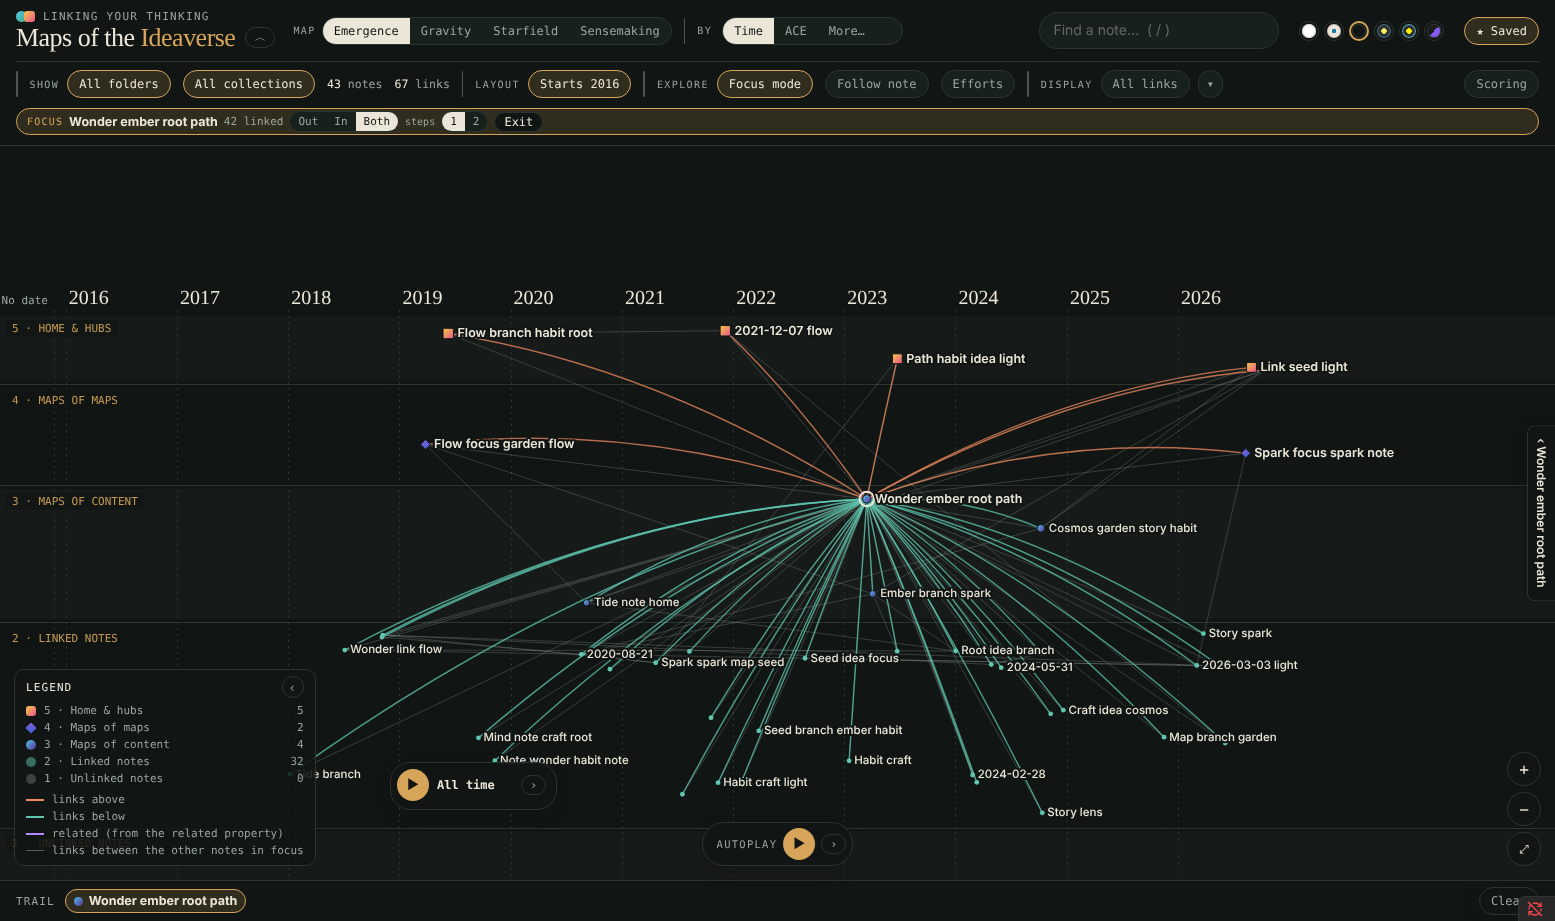
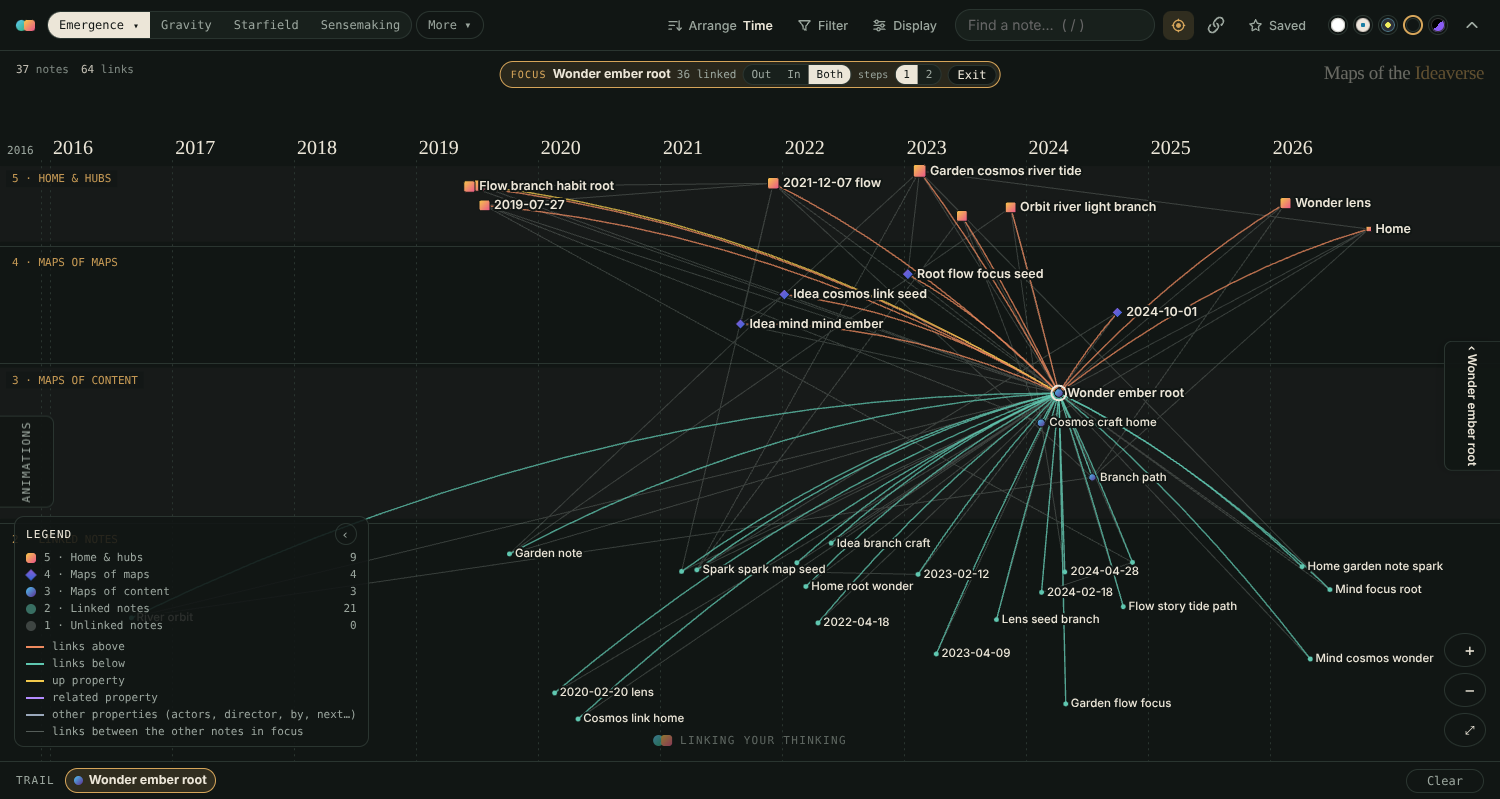
README: new screenshots of every main map and the More maps (Graph, Chord, Corona, Treemap, Bookshelf, Posters, Scatter, Mosaic); drop the early-preview note
Claude-Session: https://claude.ai/code/session_01QcxmUUuEka7RWjNHxnTd7Y

diff --git a/test/scenarios/readme-shots2.js b/test/scenarios/readme-shots2.js
@@ -1,0 +1,42 @@
+// README screenshots (made-up vault "films": the 2,500-note synth vault plus 160 made-up films with generated posters)
+const path = require('path');
+module.exports = async ({ page, sleep }) => {
+  const errs = []; page.on('pageerror', e => errs.push(e.message));
+  await page.evaluate(() => app.commands.executeCommandById('ideaverse-maps:open')); await page.waitForSelector('.ivm canvas', { timeout: 120000 }); await sleep(2500);
+  const ev = (f, a) => page.evaluate(f, a);
+  const theme = async t => { await ev(t => document.querySelector(`.ivm #themeseg button[data-th="${t}"]`).click(), t); await sleep(700); };
+  const core = async v => { await ev(v => { const b = document.querySelector(`.ivm #vseg button[data-v="${v}"]`); if (b.getAttribute('aria-pressed') !== 'true') b.click(); }, v); await sleep(2500); await close(); };
+  const more = async id => { await ev(id => { window.__ivReveal(id); document.querySelector('.ivm ' + id).click(); }, id); await sleep(3000); };
+  const close = async () => { await page.mouse.click(1590, 990); await ev(() => document.body.click()); await sleep(400); };
+  const find = async t => { const ok = await ev(t => { const f = app.vault.getMarkdownFiles().find(f => f.basename === t); if (!f) return false; app.workspace.getLeavesOfType('ideaverse-maps')[0].view.map.openNote(f.path); return true; }, t); console.log('find', t, ok); await sleep(2500); };
+  const tuck = async () => { await ev(() => { const b = document.querySelector('.ivm aside #dcol'); b && b.click(); }); await sleep(900); };
+  const clear = async () => { await ev(() => { const b = document.querySelector('.ivm aside #dx'); b && b.click(); }); await sleep(600); };
+  const legend = async open => { await ev(o => { const L = document.querySelector('.ivm #legend'); const isOpen = !L.classList.contains('collapsed'); if (isOpen !== o) (o ? document.querySelector('.ivm #legtab') : L).click(); }, open); await sleep(400); };
+  const wheel = async (n, fx = .5, fy = .5) => { const b = await page.locator('.ivm canvas').first().boundingBox(); await page.mouse.move(b.x + b.width * fx, b.y + b.height * fy); for (let i = 0; i < n; i++) { await page.mouse.wheel(0, -120); await sleep(200); } await sleep(1500); };
+  const snap = async name => { await page.mouse.move(1599, 300); await sleep(700); await page.locator('.ivm').first().screenshot({ path: path.join(process.env.SHOTS, name + '.png') }); console.log('snap', name); };
+  const zfit = async () => { await ev(() => document.querySelector('.ivm #zfit').click()); await sleep(1500); };
+
+  await theme('lyt'); await core('emergence'); await find('Story cosmos garden'); await tuck(); await zfit(); await snap('emergence'); await clear();
+  await theme('paper'); await core('gravity'); await ev(() => { const b = document.querySelector('.ivm #xseg button[data-x="ace"]'); b && b.click(); }); await sleep(1500); await find('Seed orbit idea'); await tuck(); await legend(false); await snap('gravity'); await legend(true); await clear();
+  await ev(() => { const b = document.querySelector('.ivm #xseg button[data-x="time"]'); b && b.click(); }); await sleep(1000);
+  await theme('dark'); await core('stars'); await ev(() => { const r = document.querySelector('.ivm input[name="s3d"][value="3d"]'); r && r.click(); }); await sleep(3000); await close(); await legend(false); await wheel(4, .55, .5); await snap('starfield'); await legend(true);
+  await ev(() => { const r = document.querySelector('.ivm input[name="s3d"][value="2d"]'); r && r.click(); }); await sleep(800);
+  await theme('softpaper'); await core('sense'); await find('Spark river craft'); await snap('sensemaking'); await clear();
+  await theme('dark'); await more('#gocso'); await legend(false); await find('Garden cosmos river tide'); await tuck(); await snap('corona'); await clear(); await legend(true);
+  await theme('lyt'); await more('#gochord'); await legend(false); await snap('chord'); await legend(true);
+  await theme('softpaper'); await more('#gotreemap'); await legend(false); await snap('treemap'); await legend(true);
+  await theme('paper'); await more('#goshelf'); await legend(false); await wheel(3, .3, .45); await snap('bookshelf'); await legend(true);
+  await theme('dark'); await more('#gograph'); await sleep(12000); await legend(false); await find('Garden cosmos river tide'); await tuck(); await wheel(2, .5, .5); await snap('graph'); await clear(); await legend(true);
+  // Posters on the film set
+  await theme('dark'); await more('#goposters');
+  await ev(() => { const v = app.workspace.getLeavesOfType('ideaverse-maps')[0].view; v.map.setScope(app.vault.getMarkdownFiles().filter(f => f.path.startsWith('Atlas/Films/') && f.basename !== 'Films').map(f => f.path)); }); await sleep(2500);
+  const pick = async (id, v) => { await ev(([id, v]) => { window.__ivReveal(id); const s = document.querySelector('.ivm ' + id); s.value = v; s.dispatchEvent(new Event('change')); }, [id, v]); await sleep(1500); };
+  const mode = async m => { await ev(m => { window.__ivReveal('#pmode'); document.querySelector(`.ivm #pmode [data-pm="${m}"]`).click(); }, m); await sleep(1800); };
+  await mode('rows'); await pick('#pacross', 'year'); await pick('#planes', 'genre'); await pick('#psize', 'rank'); await close(); await legend(false); await sleep(3000); await wheel(3, .55, .45); await sleep(3000); await snap('posters');
+  await zfit(); await mode('scatter'); await pick('#pacross', 'imdbRating'); await pick('#pheight', 'rank'); await close(); await sleep(4000); await snap('tastegap');
+  await mode('mosaic'); await close(); await sleep(5000); await snap('mosaic');
+  await ev(() => app.workspace.getLeavesOfType('ideaverse-maps')[0].view.map.setScope(null)); await sleep(1500); await legend(true);
+  // Focus mode on Emergence
+  await theme('dark'); await core('emergence'); await ev(() => document.querySelector('.ivm #focusmode').click()); await find('Wonder ember root'); await tuck(); await sleep(800); await snap('focus');
+  console.log('errors:', errs.length ? errs.slice(0, 3).join(' | ') : 'none');
+};

diff --git a/README.md b/README.md
@@ -1,58 +1,107 @@
 # Maps of the Ideaverse
 
-> **Early preview (0.1).** Four maps for now (Emergence, Gravity, Starfield, Sensemaking), with more to come. Expect frequent updates and some rough edges. Issues and ideas are welcome in GitHub issues.
+See your notes as maps. Every note in your vault gets a place, by what it is and how it's linked: from unlinked notes at the bottom up to your maps of maps and home notes at the top. Press play and watch your vault grow, month by month. Then try it another dozen ways: as rings, as galaxies, as a graph, as a bookshelf, as a wall of movie posters.
 
-See your notes as maps. Every note in your vault gets a place on four maps. Three of them sort notes by how they emerged: from unlinked notes at the bottom up to your maps of maps and home notes at the top. Then press play and watch your vault grow, month by month.
-
-Made by [Nick Milo](https://www.linkingyourthinking.com) of Linking Your Thinking, for anyone with an Obsidian vault (an "ideaverse").
+Made by [Nick Milo](https://www.linkingyourthinking.com) of Linking Your Thinking, for anyone with an Obsidian vault (an "ideaverse"). Free, open source, and it never changes your notes.
 
 ![Emergence: a map of content with links above and below](docs/emergence.png)
-<sub>Emergence in the LYT Mode theme: a map of content with links above it (pink, up to its maps and hubs) and below it (green, the notes it gathers). All screenshots use a made-up vault of 2,500 notes.</sub>
+<sub>Emergence in the LYT Mode theme: a map of content with links above it (up to its maps and hubs) and below it (the notes it gathers). All screenshots use a made-up vault of 2,500 notes and 160 made-up films.</sub>
 
 ## The maps
 
+Four main maps sit in the toolbar. Click a map's tab again for its variants and options.
+
 ### Emergence
 
-Five bands, one per Idea Emergence level. Left to right is time (when each note was created), or your top folders. Click any note to light up its links: up to the maps above it, down to the notes it gathers.
+Five bands, one per Idea Emergence level. Left to right is time (when each note was created), or your top folders. Click any note to light up its links: up to the maps above it, down to the notes it gathers. Its menu also has **Space-Time** (your top folders as rows) and **Planetarium** (stand inside it: Level 5 overhead).
 
 ### Gravity
 
-The same levels as rings: home notes and hubs at the center, unlinked notes on the rim. Time or folders go around the clock.
+The same levels as rings: home notes and hubs at the center, unlinked notes on the rim. Time or folders go around the circle.
 
-![Gravity by ACE: levels as rings, folders around the clock](docs/gravity.png)
+![Gravity by ACE: levels as rings, folders around the circle](docs/gravity.png)
 <sub>Gravity by ACE folders in the Play theme: a Level 3 map and its links, from the hubs at the center to notes out on the rim.</sub>
 
 ### Starfield
 
-Your biggest hubs become galaxy cores. Every note joins the hub it reaches in the fewest links; maps sit in the bulge, linked notes trail out along the arms, and unlinked notes drift in nebulae, one per folder. Click a galaxy's name to fly into it. Starfield's own menu (click its tab) switches to 3D and sets the galaxy glow, a very occasional twinkle, and galaxies that slowly turn. On the Timelapse, each new note flares as it's born and its galaxy brightens. Orbit (in Animations) makes it a slow screensaver.
+Your biggest hubs become galaxy cores. Every note joins the hub it reaches in the fewest links; maps sit in the bulge, linked notes trail out along the arms, and unlinked notes drift in nebulae, one per folder. Click a galaxy's name to fly into it. Starfield's own menu switches to 3D and sets the galaxy glow, a very occasional twinkle, and galaxies that slowly turn. On the Timelapse, each new note flares as it's born. Orbit (in Animations) makes it a slow screensaver.
 
 ![Starfield in 3D: galaxies of notes around their hubs](docs/starfield.png)
-<sub>Starfield in 3D, Dark theme, panels tucked away. Each galaxy is a hub and the notes that reach it first.</sub>
+<sub>Starfield in 3D, Dark theme. Each galaxy is a hub and the notes that reach it first.</sub>
 
 ### Sensemaking
 
-A 2×2 of four ways of working with notes: Synthesizer (reflection, top-down), Producer (expression, top-down), Inner Guide (reflection, bottom-up) and Creative (expression, bottom-up). Each note is placed by plain rules about where it lives and how it's written (folders, maps, headings and lists, checkboxes and due dates, first-person writing, questions). No AI. Click a note to see exactly which clues moved it. Choose which years it shows under Layout.
+A 2×2 of four ways of working with notes: Synthesizer (reflection, top-down), Producer (expression, top-down), Inner Guide (reflection, bottom-up) and Creative (expression, bottom-up). Each note is placed by plain rules about where it lives and how it's written (folders, maps, headings and lists, checkboxes and due dates, first-person writing, questions). No AI. Click a note to see exactly which clues moved it.
 
 ![Sensemaking: the four quadrants, with a note's reasons in the panel](docs/sensemaking.png)
 <sub>Sensemaking in the Soft Paper theme. The panel shows why this note is a Synthesizer.</sub>
 
-![Sensemaking time-lapse: new notes swirl out to their places](docs/swirl.gif)
-<sub>The time-lapse on Sensemaking with Swirl out: each week's new notes spiral out to where they belong.</sub>
+## More maps
 
-### Posters (under More)
+**More** holds the rest.
 
-For a smaller, targeted set: a collection, a folder, or a base view (your movies, your books, a learning pack). Each note becomes a card, laid out by its own properties. **Across** is a date or number (a release year, a rating, a date property, or the created date); **Lanes** are a category (genre, status, a director, or the base's own groups); **Size** is a number (your rating, the link score). If notes have an image property (a poster, a cover, a link to an image in your vault), the card shows it. The map picks sensible defaults from the properties your notes share; click the Posters tab to change them. Inside a base it follows the base: its Sort sets Across and its Group sets the lanes.
+### Graph
 
-Under each choice is a mini slider: a little histogram of that property's values, with two handles that keep only the notes in between (just the '90s, only your 4-star films). Lanes get chips instead, one per value with its count: click to switch a lane off, ⌥/⌘-click to show only that one.
+Like Obsidian's graph view: every note pushes the others away and its links pull it toward its neighbors, settling live as you watch. Drawn with the emergence symbols, so hubs and maps stand out, and with everything the other maps have: the Timelapse, Wander Mode, Focus mode, filters. Unlinked notes ring the outside.
 
-Its menu reads in plain words: **Layout** is Rows or Scatter; **Left to right** and **Rows by** (or, in Scatter, **Bottom to top**) place the cards; **Card size** scales them; a line under each says what it takes. Switch to **Scatter** and the rows give way to a second number up the side: your rating against the crowd's (a taste gap), or the year you watched something against the year it came out. When the two are the same kind of thing, a line marks where they agree (same score, same year), and the notes furthest from it get a ring.
+![Graph: a hub and its links](docs/graph.png)
+<sub>Graph in the Dark theme, zoomed in on a hub and its links.</sub>
+
+### Chord, Corona and Tesla
+
+Every note on a ring, in arcs by folder (or by year). Links between kinds cross the middle as bands that thicken as your vault grows. Hover an arc to light up where its links go. **Corona** puts the ring on a globe and arcs the links over the surface like solar prominences; **Tesla** sends them through a glass globe.
+
+![Chord: folders as arcs, links as bands](docs/chord.png)
+<sub>Chord in LYT Mode: each arc a folder, each band the links between two of them.</sub>
+
+![Corona: links arc over a globe](docs/corona.png)
+<sub>Corona in the Dark theme, with one hub's links arcing over the globe.</sub>
+
+### Treemap
+
+Every folder and note as a rectangle, sized by its score. Subfolders can be outlined and named.
+
+![Treemap: folders and notes as rectangles](docs/treemap.png)
+<sub>Treemap in Soft Paper.</sub>
+
+### Bookshelf
+
+Every note as a book on a double-wide shelf, shelved by call number (a decimal system that comes from your own linking), title, date or subfolder. An Index panel lists every call number, ready to copy as a Markdown list.
+
+![Bookshelf: notes as books](docs/bookshelf.png)
+<sub>Bookshelf in the Play theme, shelved by call number.</sub>
+
+### Posters
+
+For a smaller, targeted set: a collection, a folder, or a base view (your movies, your books, a learning pack). Each note becomes a card, laid out by its own properties, and if notes have an image property (a poster, a cover, a link to an image in your vault), the card shows it. Click the Posters tab for its menu:
+
+- **Layout:** **Rows** (one row per value of a category, like genre or status), **Scatter** (two numbers, one left to right and one bottom to top), or **Mosaic** (every card as a tile, no gaps, a block per category).
+- **Left to right** (a date or number), **Rows by** (a category) or **Bottom to top** (a second number), and **Card size** (a number). A line under each says what it takes.
+- Under each, a mini slider: a little histogram of that property's values, with two handles that keep only the notes in between (just the '90s, only your 4-star films). Rows get chips instead, one per value with its count: click to switch one off, ⌥/⌘-click to show only that one.
+
+The map picks sensible defaults from the properties your notes share. Inside a base it follows the base: its Sort sets left to right and its Group sets the rows.
+
+![Posters: films by year, a row per genre](docs/posters.png)
+<sub>Posters in the Dark theme: made-up films by release year, a row per genre, sized by rating.</sub>
+
+In **Scatter**, when the two numbers are the same kind of thing (two ratings, two years), a line marks where they agree, and the notes furthest from it get a ring: your rating against the crowd's shows your hidden gems above the line.
+
+![Scatter: your rating against the crowd's](docs/tastegap.png)
+<sub>Scatter: IMDb rating left to right, your own rating bottom to top, and the "same score" line.</sub>
+
+![Mosaic: posters as tiles, a block per genre](docs/mosaic.png)
+<sub>Mosaic: every film a tile, a block per genre, each tile sized by your rating.</sub>
+
+### Experimental
+
+Sketches still taking shape: **Geometric** (your top 25 notes placed by triangles: Square, Hexagon, Mandala, Octahedron, Shells), **Linear** (Linear Calendar, Spiral, Lifeline), **Planet** (the PKM Planet map: Flat, Tabletop, Globe) and **Unfinished** (Tree, Skyline).
 
 ## The time-lapse
 
 In **Animations** (bottom left), pick **Timelapse** and press ▶ to replay your vault by month or by week. New notes arrive (comets, rain, or a swirl), and notes move up a level as their links arrive. Click a note at any point to pause and look around; Resume carries on.
 
-![The time-lapse playing on Gravity, November 2023](docs/timelapse.png)
-<sub>The time-lapse mid-play on Gravity, LYT Mode theme: November 2023's new notes burst in around the clock.</sub>
+![Sensemaking time-lapse: new notes swirl out to their places](docs/swirl.gif)
+<sub>The time-lapse on Sensemaking with Swirl out: each week's new notes spiral out to where they belong.</sub>
 
 ## How notes get their level
 
@@ -70,7 +119,7 @@ The score counts links in, links out, links both ways, and uplinks (the `up` and
 
 - Open it from the ribbon (the orbit icon) or the command **Maps of the Ideaverse: Open map**.
 - Click a note to see its links; **Open note** opens it beside the map. Cmd/Ctrl-click opens it in a new tab.
-- One toolbar row: the maps on the left (click the current map's tab for its variants and options; **More** holds the rest), then **Arrange** (what left to right means: Time, ACE, a number, or one of your properties), **Group** (on maps that group), **Filter** (folders and collections, with a count when it's on), **Display** (links, theme, how scoring works), **Find**, **Focus on active note** (the note and its neighbors), **Sync active note with Obsidian editor** and **Saved**. The note and link counts sit at the map's top right.
+- One toolbar row: the maps on the left (click the current map's tab for its variants and options; **More** holds the rest), then **Arrange** (how notes are placed: left to right on Emergence, around the circle on Gravity, the stars' color on Starfield; by Time, ACE, a number, or one of your properties), **Group** (on maps that group), **Filter** (folders and collections, with a count when it's on), **Display** (links, theme, how scoring works), **Find**, **Focus on active note** (the note and its neighbors), **Sync active note with Obsidian editor** and **Saved**. The note and link counts sit at the map's top left.
 - Search with `/`. Drag to pan, scroll to zoom. **Focus** (the toolbar's target icon, or **Focus on its links** in a note's panel) shows one note and its neighbors. **Animations** (bottom left) holds the Timelapse, **Wander Mode** (wanders from note to linked note, or hops between maps) and **Orbit** (a slow drift; globes and 3D maps turn).
 - **Sync active note with Obsidian editor** (the toolbar's sync icon, or the command **Toggle follow note**): the map follows whichever note you're editing, like a local graph linked to the active note. It works both ways: pick a note on the map (click, search, the note panel or the trail), or let a tour or Autoplay move along, and it opens in your editor, while the map keeps focus. Put the map in a split or the sidebar and it keeps up as you move through your notes. In Focus mode it shows just that note and its links.
 - **★ Saved** holds saved views and tours. Name the current view (map, axis, filters, zoom and position, selected note, where the time-lapse stands, Starfield's 3D angle) to come back to it. **Record a tour**, click through some notes, stop, and name it; play it back with ‹ › or let it run. Before your first save it asks which folder to keep them in (pick one or type a new one). They live in `Maps of the Ideaverse - saved views.json` there, a plain file you own, updated every time you save. The 📁 button moves it.
@@ -80,7 +129,7 @@ The score counts links in, links out, links both ways, and uplinks (the `up` and
 - Five themes: Play, Soft Paper, Dark, LYT Mode, or match your own Obsidian theme (the last swatch), which follows it as you switch.
 
 ![Focus mode: one note and everything it links to](docs/focus.png)
-<sub>Focus mode on Emergence, Dark theme: one map and the 42 notes it links to, with the links among them drawn faintly.</sub>
+<sub>Focus mode on Emergence, Dark theme: one map and the 36 notes it links to, with the links among them drawn faintly.</sub>
 
 ## Settings
 
